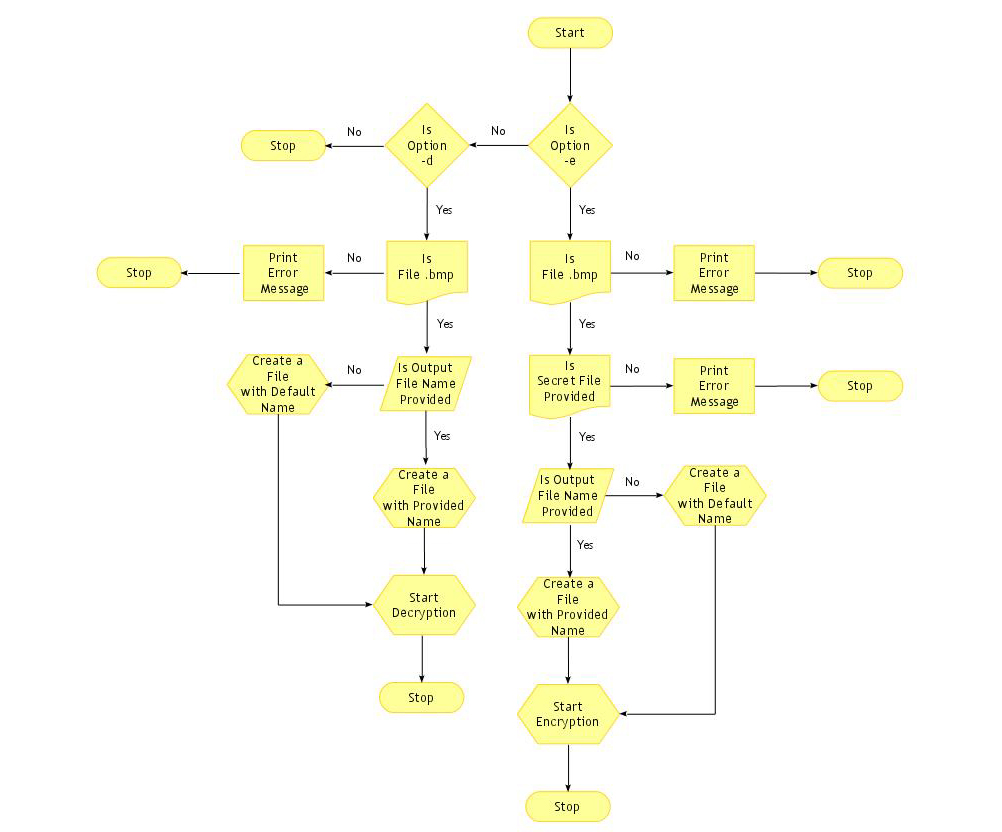
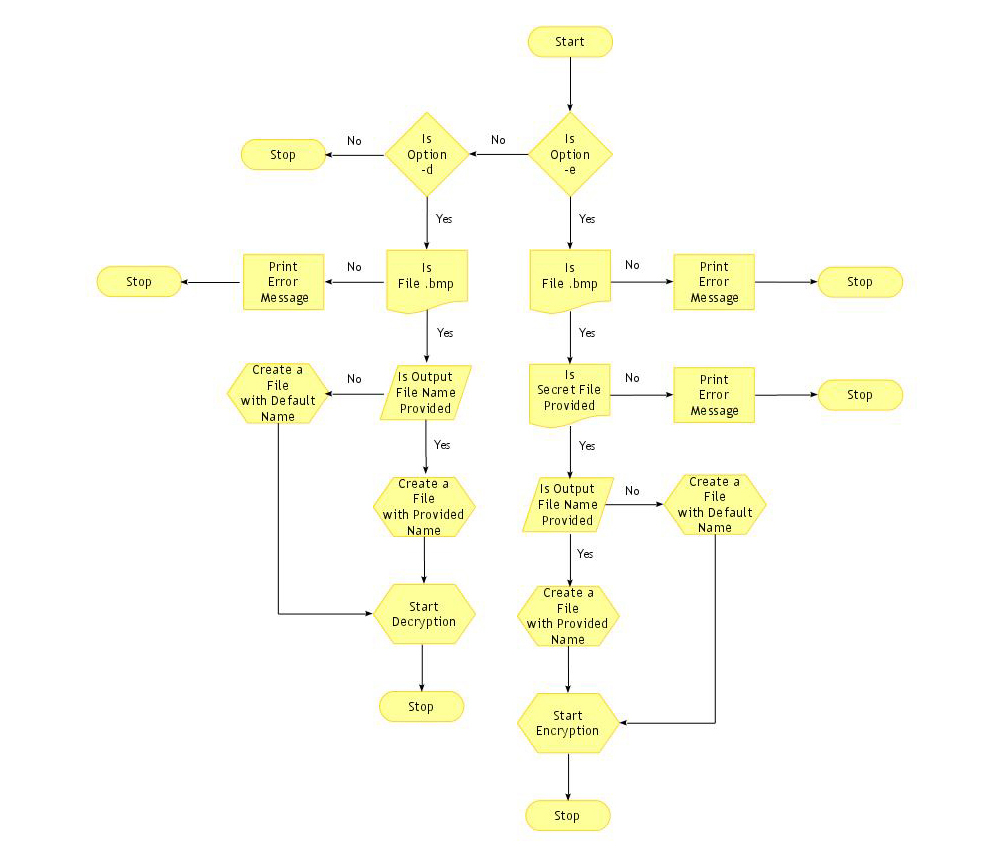
markdown updated

diff --git a/README.md b/README.md
@@ -23,7 +23,9 @@ LSB Image Steganography
 
 *This project expects us to Encode a message such a way that the quality of the image doesn't change much. So we can do encoding of bits from the message in the LSB of the RGB data.*
 
-![image_4](https://github.com/micro9997/Steganography/blob/master/images/image_4.jpg)
+| ![image_4](https://github.com/micro9997/Steganography/blob/master/images/image_4.jpg) |
+|:--:|
+|**Design** |
 
 &nbsp;
 
